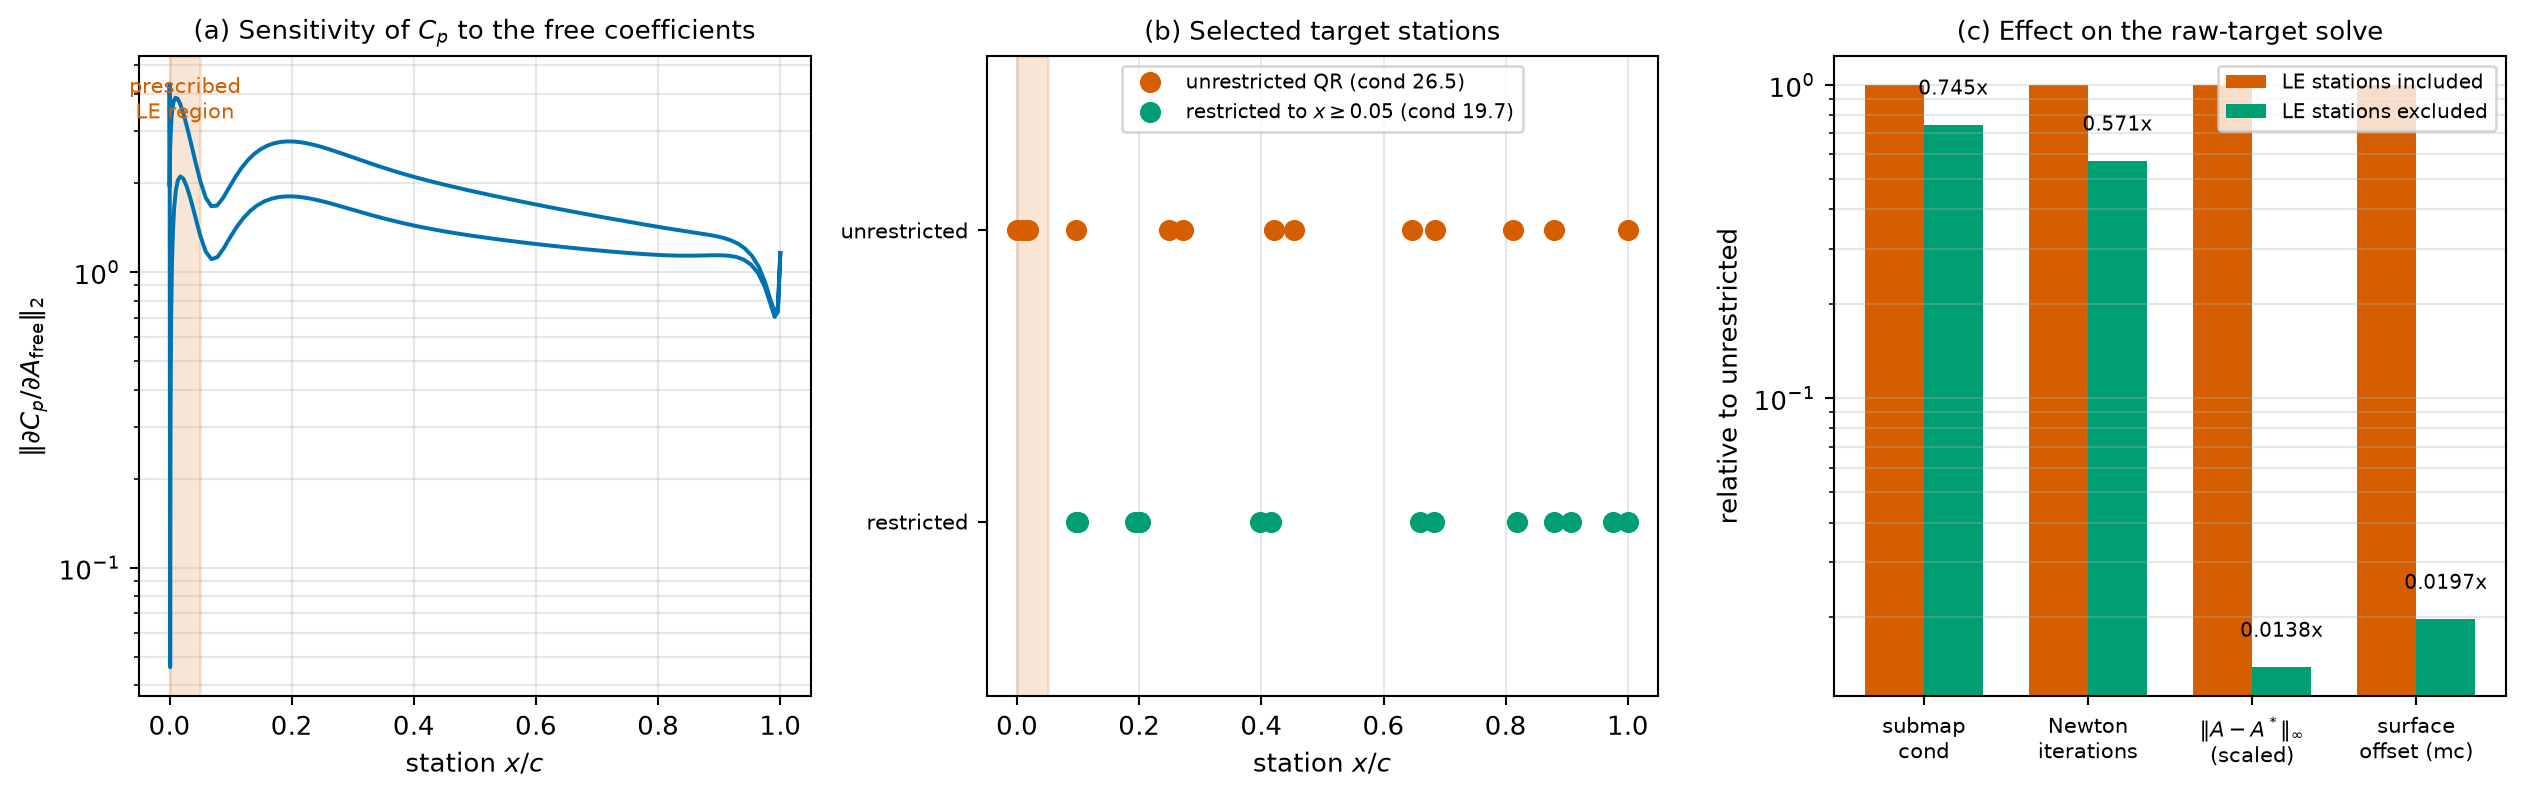
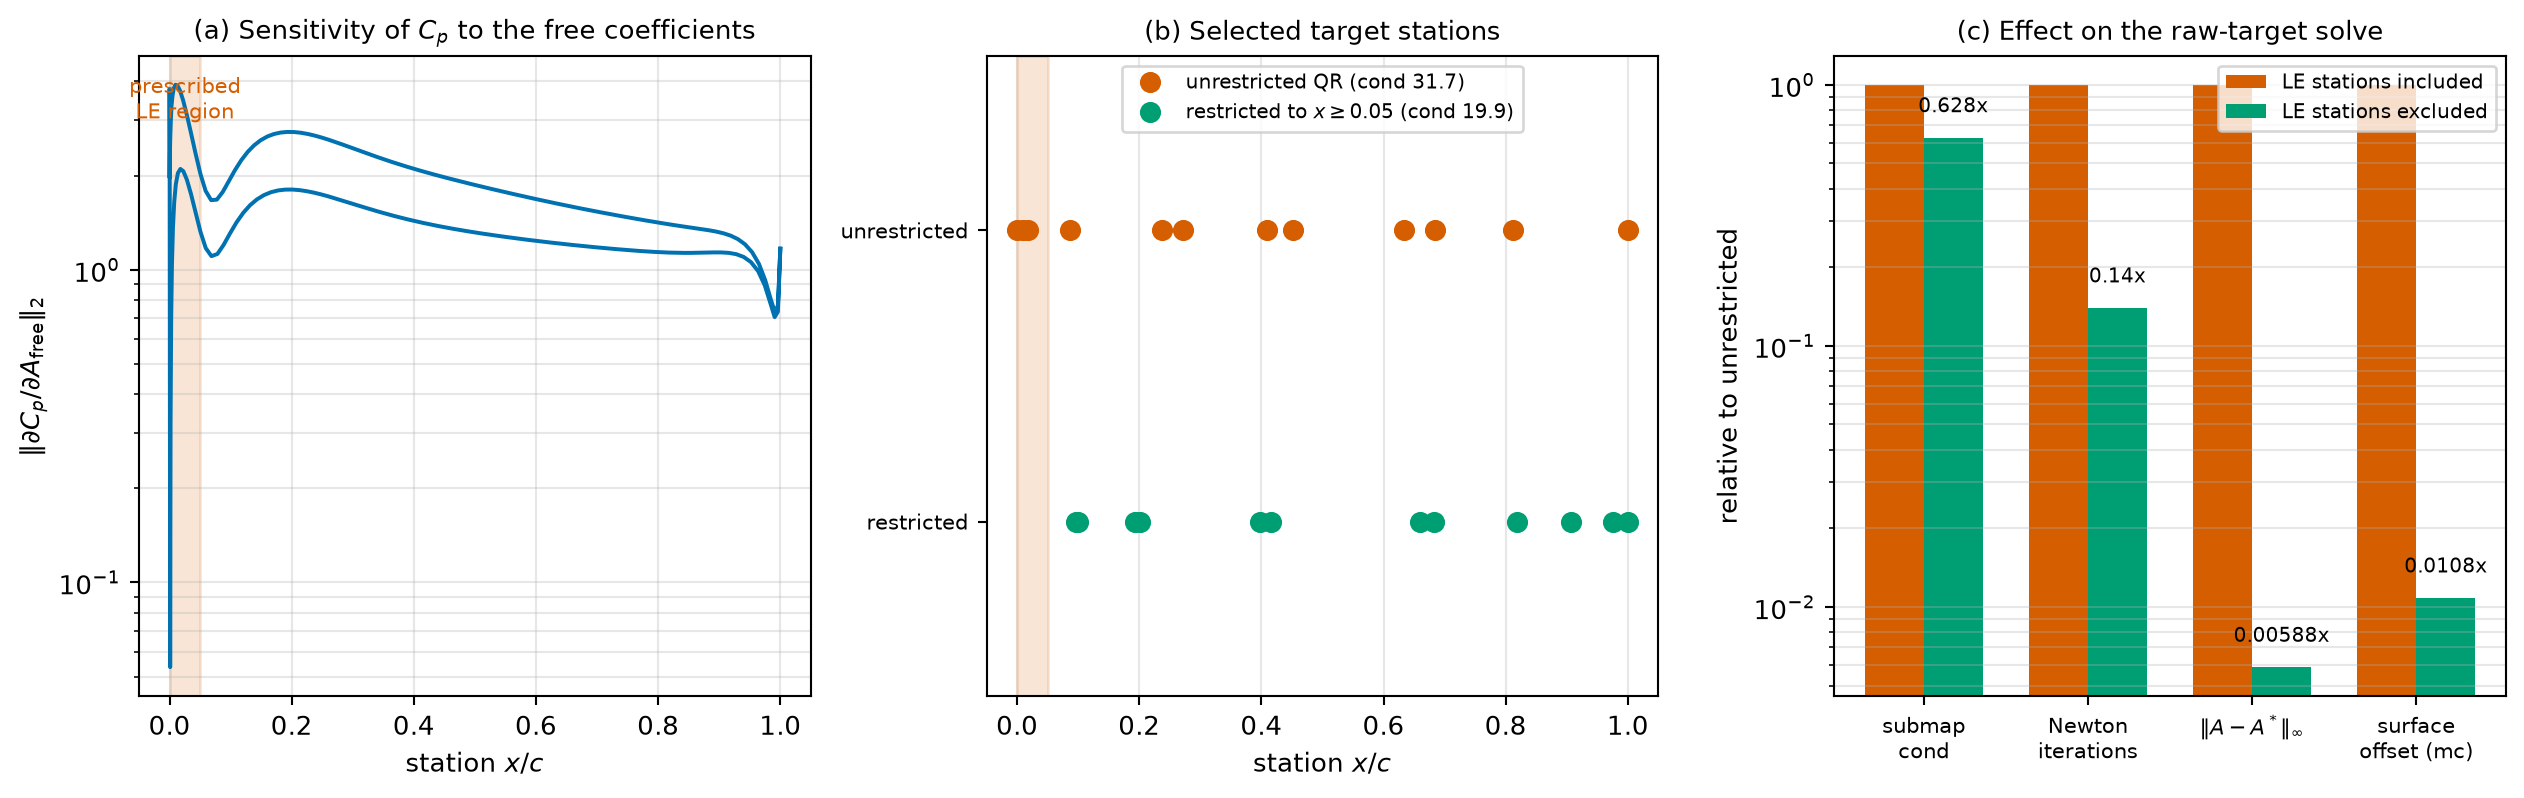
Archive the leading-edge station experiment, and correct the claim it was supporting
The table and figure added for the prescribed-LE finding were sourced from a
one-off run transcribed into a docstring, with the comparison values
hardcoded into the plotting code. That fails the project's own rule that
every reported number trace to a manifest, and contradicted the paper's
reproducibility statement. Both audits flagged it.

experiments/run_le_stations.py now runs the comparison properly: one shared
seeded starting point, one factor varied (whether QR candidates are
restricted to x >= prescribed_le_fraction), and an immutable manifest with
config hash, git SHA and seed. The figure reads that artifact instead of
restating it, at the same perturbed baseline and the same station count, so
the conditioning it draws is the conditioning the run reports.

The archived numbers are not the ones previously quoted, and are stronger.
With leading-edge stations in the candidate set the solve does not converge
at all inside the 50-iteration budget, ending 11.74 millichords from the
target, while still driving its residual to 1.9e-10. Restricted, it converges
in 7 iterations to 0.127 millichords. The table and prose now report this
rather than the earlier "both converge, one is wrong" framing, which belongs
to the even-versus-QR ablation and was not what this experiment showed.

The mechanism claim was also wrong and is corrected. The text asserted that
sensitivity to the free coefficients collapses over the prescribed region.
[…]

diff --git a/paper/sections/results.tex b/paper/sections/results.tex
@@ -147,18 +147,24 @@ candidate stations, or restricting the stations without prescribing the nose,
 each leaves a near-null direction in the sampled system; only the pair is
 identifiable.
 
-The mechanism on this side is the simpler of the two. Under the prescribed-LE
-treatment (FM-3, \S\ref{sec:fm}), $A_{u,0}$ and $A_{l,0}$ are given rather
-than solved. A target row placed inside the prescribed region therefore
-constrains pressure over a piece of surface that cannot move, and contributes
-almost nothing about the coefficients that remain free.
-Figure~\ref{fig:le-identifiability}(a) shows this directly: the norm of
-$\partial C_p/\partial A_{\text{free}}$ collapses over the prescribed region.
-The consequence is the one already familiar from
-Table~\ref{tab:identifiability}, reached from the opposite direction: the
-extended system stays formally square and full-rank while becoming
-numerically near-dependent, and Newton converges to a root that is not the
-generating geometry.
+Under the prescribed-LE treatment (FM-3, \S\ref{sec:fm}), $A_{u,0}$ and
+$A_{l,0}$ are given rather than solved, so a target row placed inside the
+prescribed region constrains pressure over a piece of surface that cannot
+move. The effect on sampling is not a uniform loss of information, and
+Figure~\ref{fig:le-identifiability}(a) is worth reading carefully on this
+point. Across the prescribed region the norm of
+$\partial C_p/\partial A_{\text{free}}$ spans nearly two orders of magnitude,
+from $0.054$ at the nose itself to $3.90$ just aft of it, against a median of
+$1.47$ over the rest of the chord. The region therefore contains both the
+single least informative station on the surface and some of the most
+sensitive. That combination is what makes unrestricted QR selection a poor
+choice here rather than merely a neutral one: the pivoting is drawn to the
+high-sensitivity nose stations, and the rows it selects there are strongly
+mutually correlated, because a small neighbourhood of a fixed nose produces
+nearly the same pressure response for every free coefficient. The extended
+system stays formally square and full-rank while becoming numerically
+near-dependent, which is the same underlying condition as
+Table~\ref{tab:identifiability} reached from the opposite direction.
 
 Restricting the QR candidate set to $x \geq$ the prescribed-LE fraction, as
 Algorithm~\ref{alg:qrpivot} specifies, removes the degeneracy.
@@ -167,41 +173,58 @@ target, holding everything else fixed.
 
 \begin{table}[h]
 \centering
-\caption{Target-station placement under a prescribed leading edge, measured on
-a viscous self-consistency target from an identical perturbed start. Only the
-candidate set differs between the two columns. The recovered surface offset is
-quoted in millichords, against the 1 millichord (0.1 percent chord) that
-\S\ref{sec:formulation}'s fit gate allows a CST representation itself.}
+\caption{Target-station placement under a prescribed leading edge. Both cells
+start from the same perturbed geometry and differ only in whether the QR
+candidate set is restricted to $x \geq$ the prescribed-LE fraction. With the
+leading-edge region left in the candidate set the solve does not converge at
+all within the 50-iteration budget, despite driving its residual to
+$1.9\times10^{-10}$. Surface offset is quoted in millichords, against the 1
+millichord that \S\ref{sec:formulation}'s fit gate allows a CST
+representation itself. Source:
+\pth{experiments/results/le_stations/result.json}.}
 \label{tab:le-identifiability}
 \footnotesize
 \begin{tabularx}{\textwidth}{@{}L c c@{}}
 \toprule
-Quantity & LE stations included & LE stations excluded \\
+Quantity & LE stations in candidate set & LE stations excluded \\
 \midrule
-Submap condition            & not recorded          & $19.9$ \\
-Newton iterations           & 14                    & \textbf{8} \\
-Final residual              & $7.19\times10^{-11}$  & $5.06\times10^{-11}$ \\
-$\norm{A-A^*}_\infty$       & $3.9\times10^{-2}$    & $\mathbf{5.4\times10^{-4}}$ \\
-Max surface offset (mc)     & $0.863$               & $\mathbf{0.017}$ \\
+Candidate stations          & 200                   & 169 \\
+Submap condition            & $31.7$                & $19.9$ \\
+Converged                   & \textbf{no}           & \textbf{yes} \\
+Newton iterations           & 50 (budget exhausted) & \textbf{7} \\
+Final residual              & $1.89\times10^{-10}$  & $8.21\times10^{-11}$ \\
+$\norm{A-A^*}_\infty$ (free)& $6.97\times10^{-1}$   & $\mathbf{4.10\times10^{-3}}$ \\
+Max surface offset (mc)     & $11.74$               & $\mathbf{0.127}$ \\
 \bottomrule
 \end{tabularx}
 \end{table}
 
-Both columns converge, and both report a residual at the solver floor. The
-recovered geometry differs by a factor of fifty. This reinforces rather than
-merely repeats \S\ref{sec:ablations}: there, the degeneracy came from
-discarding between-station information across the whole chord; here it comes
-from spending equations on a region that has been removed from the design
-space. In both cases the residual norm is silent about it, and only a
-comparison against the true coefficients or the true surface reveals the
-difference.
+The residual is not what separates the two columns. The unrestricted cell
+drives its residual to $1.9\times10^{-10}$, within an order of magnitude of
+the restricted cell's, and still fails to converge inside a 50-iteration
+budget while ending $11.7$ millichords from the target surface. Restricting
+the candidate set converges in 7 iterations to $0.127$ millichords, a
+ninety-fold improvement in the recovered shape, with the submap conditioning
+improving only from $31.7$ to $19.9$. A conditioning number that moves by
+less than a factor of two therefore does not bound the effect: what matters
+is whether the equations are spent on a part of the surface the solver is
+allowed to move.
+
+This reinforces rather than repeats \S\ref{sec:ablations}. There, the
+degeneracy came from discarding between-station information across the whole
+chord, and both configurations converged, one of them to a wrong root. Here
+it comes from spending equations on a region that has been removed from the
+design space, and the failure is visible as non-convergence rather than as a
+confident wrong answer. Neither is detectable from the residual norm alone.
 
 \begin{figure}[htbp]
 \centering
 \includegraphics[width=\textwidth]{fig_le_identifiability.png}
 \caption{Why target stations must be kept out of a prescribed leading edge.
-(a)~the sensitivity of surface pressure to the free coefficients collapses
-over the prescribed region, shaded; (b)~the stations chosen by unrestricted
+(a)~the sensitivity of surface pressure to the free coefficients across the
+chord, with the prescribed region shaded: it does not vanish there but varies
+by nearly two orders of magnitude, holding both the least and some of the most
+sensitive stations; (b)~the stations chosen by unrestricted
 QR against those chosen from the restricted candidate set, with the resulting
 submap conditioning; (c)~the effect on the solve, plotted relative to the
 unrestricted case on a logarithmic axis. Values as in

diff --git a/src/cins/benchmarks/paper_figures_theory.py b/src/cins/benchmarks/paper_figures_theory.py
@@ -34,6 +34,7 @@ Matplotlib Agg backend only (headless-safe).
 
 from __future__ import annotations
 
+import json
 import logging
 from pathlib import Path
 
@@ -380,7 +381,12 @@ def fig_le_identifiability(out_dir: Path, n: int = 6) -> Path:
     cfg = load_config()
     fit = _naca2412_fit(n)
     psi = cosine_spacing(160)
-    a0 = np.concatenate([fit.A_upper, fit.A_lower])
+    # Evaluate at the SAME perturbed starting geometry the archived run used,
+    # so the conditioning shown here is the conditioning that run reports
+    # rather than a different one computed at the fitted section.
+    a_star = np.concatenate([fit.A_upper, fit.A_lower])
+    rng = np.random.default_rng(42)
+    a0 = a_star + 0.004 * rng.standard_normal(a_star.size)
     n_u = n_l = n
     n_a = n_u + n_l + 2
     le_frac = float(cfg.cst.prescribed_le_fraction)
@@ -394,7 +400,7 @@ def fig_le_identifiability(out_dir: Path, n: int = 6) -> Path:
     row_norm = np.linalg.norm(M_free, axis=1)
 
     # the two selections that separate the configurations
-    n_pick = len(free_idx) + 1  # alpha free, no constraint rows
+    n_pick = len(free_idx)  # alpha fixed, no constraint rows: matches the run
     _, _, piv_all = _qr(M_free.T, pivoting=True)
     st_all = np.sort(piv_all[:n_pick])
     cand = np.nonzero(xs >= le_frac)[0]
@@ -431,10 +437,23 @@ def fig_le_identifiability(out_dir: Path, n: int = 6) -> Path:
     ax.grid(alpha=0.3, axis="x")
 
     ax = axes[2]
-    labels = ["submap\ncond", "Newton\niterations", r"$\|A-A^*\|_\infty$" + "\n(scaled)",
+    # Read the comparison from the archived run rather than restating it here.
+    # These numbers were previously hardcoded, which meant the figure could not
+    # go stale in step with the experiment and did not satisfy the project's
+    # own rule that every reported number trace to a manifest.
+    res_path = Path("experiments/results/le_stations/result.json")
+    if not res_path.exists():
+        raise FileNotFoundError(
+            f"{res_path} not found; run experiments/run_le_stations.py first"
+        )
+    cells = json.loads(res_path.read_text())["cells"]
+    cu, cr = cells["unrestricted"], cells["restricted"]
+    labels = ["submap\ncond", "Newton\niterations", r"$\|A-A^*\|_\infty$",
               "surface\noffset (mc)"]
-    unrestricted = [cond_all, 14.0, 3.9e-2, 0.863]
-    restricted = [cond_filt, 8.0, 5.4e-4, 0.017]
+    unrestricted = [cu["submap_cond"], float(cu["iterations"]),
+                    cu["err_free_inf"], cu["max_surface_offset_mc"]]
+    restricted = [cr["submap_cond"], float(cr["iterations"]),
+                  cr["err_free_inf"], cr["max_surface_offset_mc"]]
     xpos = np.arange(len(labels))
     w = 0.36
     norm_u = [1.0] * len(labels)

diff --git a/paper/sections/falsifiable.tex b/paper/sections/falsifiable.tex
@@ -45,13 +45,12 @@ essentially at floating-point noise: the forced-transition solve and
 the natural-transition physics agree to machine precision at the recovered
 design ($c_l=0.449091$, $c_d=0.005774$ under both). Realisability
 (inviscid-consistent, ADR-0004 metric 1) is $3.9\times10^{-4}$; model gap
-(diagnostic only) is $0.110$ (\S\ref{sec:presolve}). Framing, per the adversarial review that closed this
-gate: 16 coefficients are \emph{recovered} by the Newton iteration; the two
-LE coefficients $A_{u,0}$, $A_{l,0}$ are \emph{prescribed} by the
-\texttt{le\_treatment=prescribed} configuration, not recovered. This
-free-16/prescribed-2 split is stated explicitly rather than folded into an
-undifferentiated ``18 coefficients recovered'' claim
-(docs/gates/T4-T7-closure.md).
+(diagnostic only) is $0.110$ (\S\ref{sec:presolve}). Sixteen coefficients are
+\emph{recovered} by the Newton iteration; the two leading-edge coefficients
+$A_{u,0}$ and $A_{l,0}$ are \emph{prescribed} by the
+\texttt{le\_treatment=prescribed} configuration and are not recovered. The
+error norms quoted above are over the 16 free coefficients
+(\pth{docs/gates/T4-T7-closure.md}).
 
 \begin{table}[h]
 \centering

diff --git a/paper/sections/discussion.tex b/paper/sections/discussion.tex
@@ -43,11 +43,9 @@ tension (\pth{docs/triz/FM4-transition-smoothness.md};
   self-service) to select which $M$ rows are maximally informative.
 \end{itemize}
 
-This is offered as a methodology thread for the Discussion, not merely a
-post-hoc label: each mitigation was arrived at independently, by direct
-numerical evidence (a stalled residual, a spiked row-norm, a badly-
-conditioned submap), and only afterward recognised as sharing a common
-resolution structure.
+Each mitigation was arrived at independently, from direct numerical evidence:
+a stalled residual, a spiked row-norm, a badly conditioned submap. The common
+resolution structure was recognised only afterward.
 
 \subsection{Limitations}
 \label{sec:limitations}
